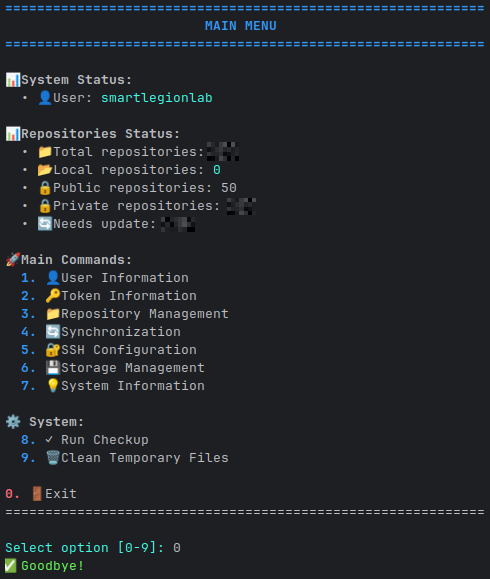
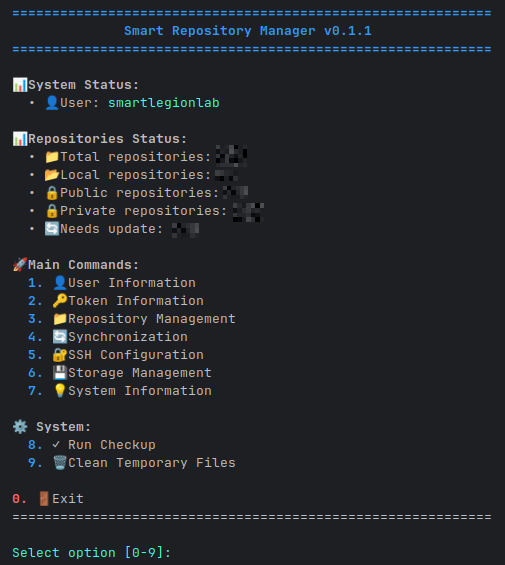
Smart Repository Manager CLI v0.1.1

Changed region(s): [[0.0, 0.1204, 0.9796, 0.9929], [0.0, 0.0, 1.0, 0.0903]]

diff --git a/engine/core/menu_handlers.py b/engine/core/menu_handlers.py
@@ -28,7 +28,7 @@ class MenuHandlers:
 
         while self.cli.running:
             clear_screen()
-            print_section("MAIN MENU")
+            print_section("Smart Repository Manager v0.1.1")
 
             if not self.cli.current_user or not self.cli.repositories:
                 print_error("User or repositories not loaded.")

diff --git a/engine/ui/menu_renderer.py b/engine/ui/menu_renderer.py
@@ -6,7 +6,7 @@ class MenuRenderer:
     @staticmethod
     def render_main_menu(ui_state: dict):
         clear_screen()
-        print_section("MAIN MENU")
+        print_section("Smart Repository Manager v0.1.1")
 
         print(f"\n{Colors.BOLD}📊 System Status:{Colors.END}")
         if ui_state.get('current_user'):

diff --git a/README.md b/README.md
@@ -1,4 +1,4 @@
-# Smart Repository Manager CLI
+# Smart Repository Manager CLI <sup>v0.1.1</sup>
 
 A comprehensive command-line tool for managing GitHub repositories with advanced synchronization, SSH configuration management, and intelligent local repository management.
 
